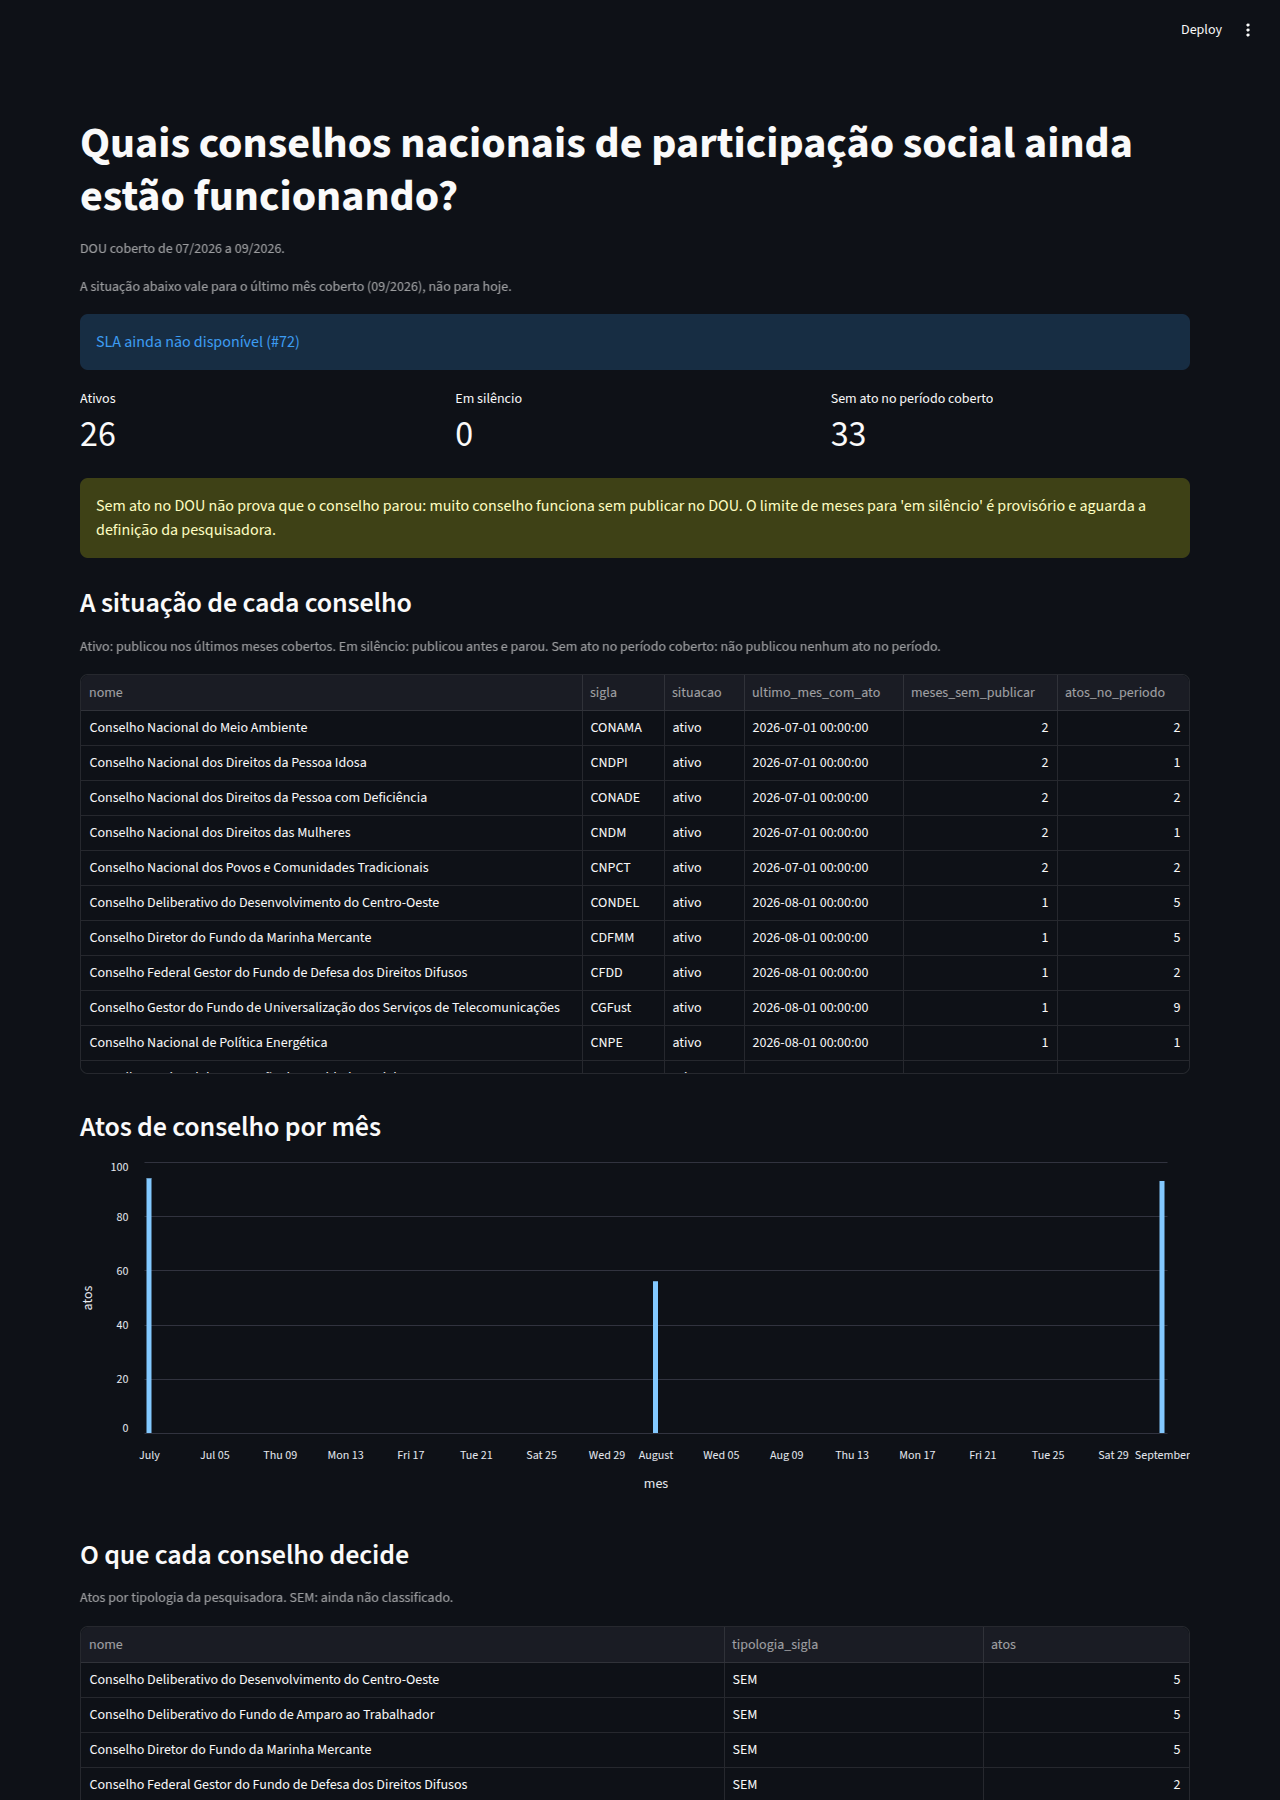
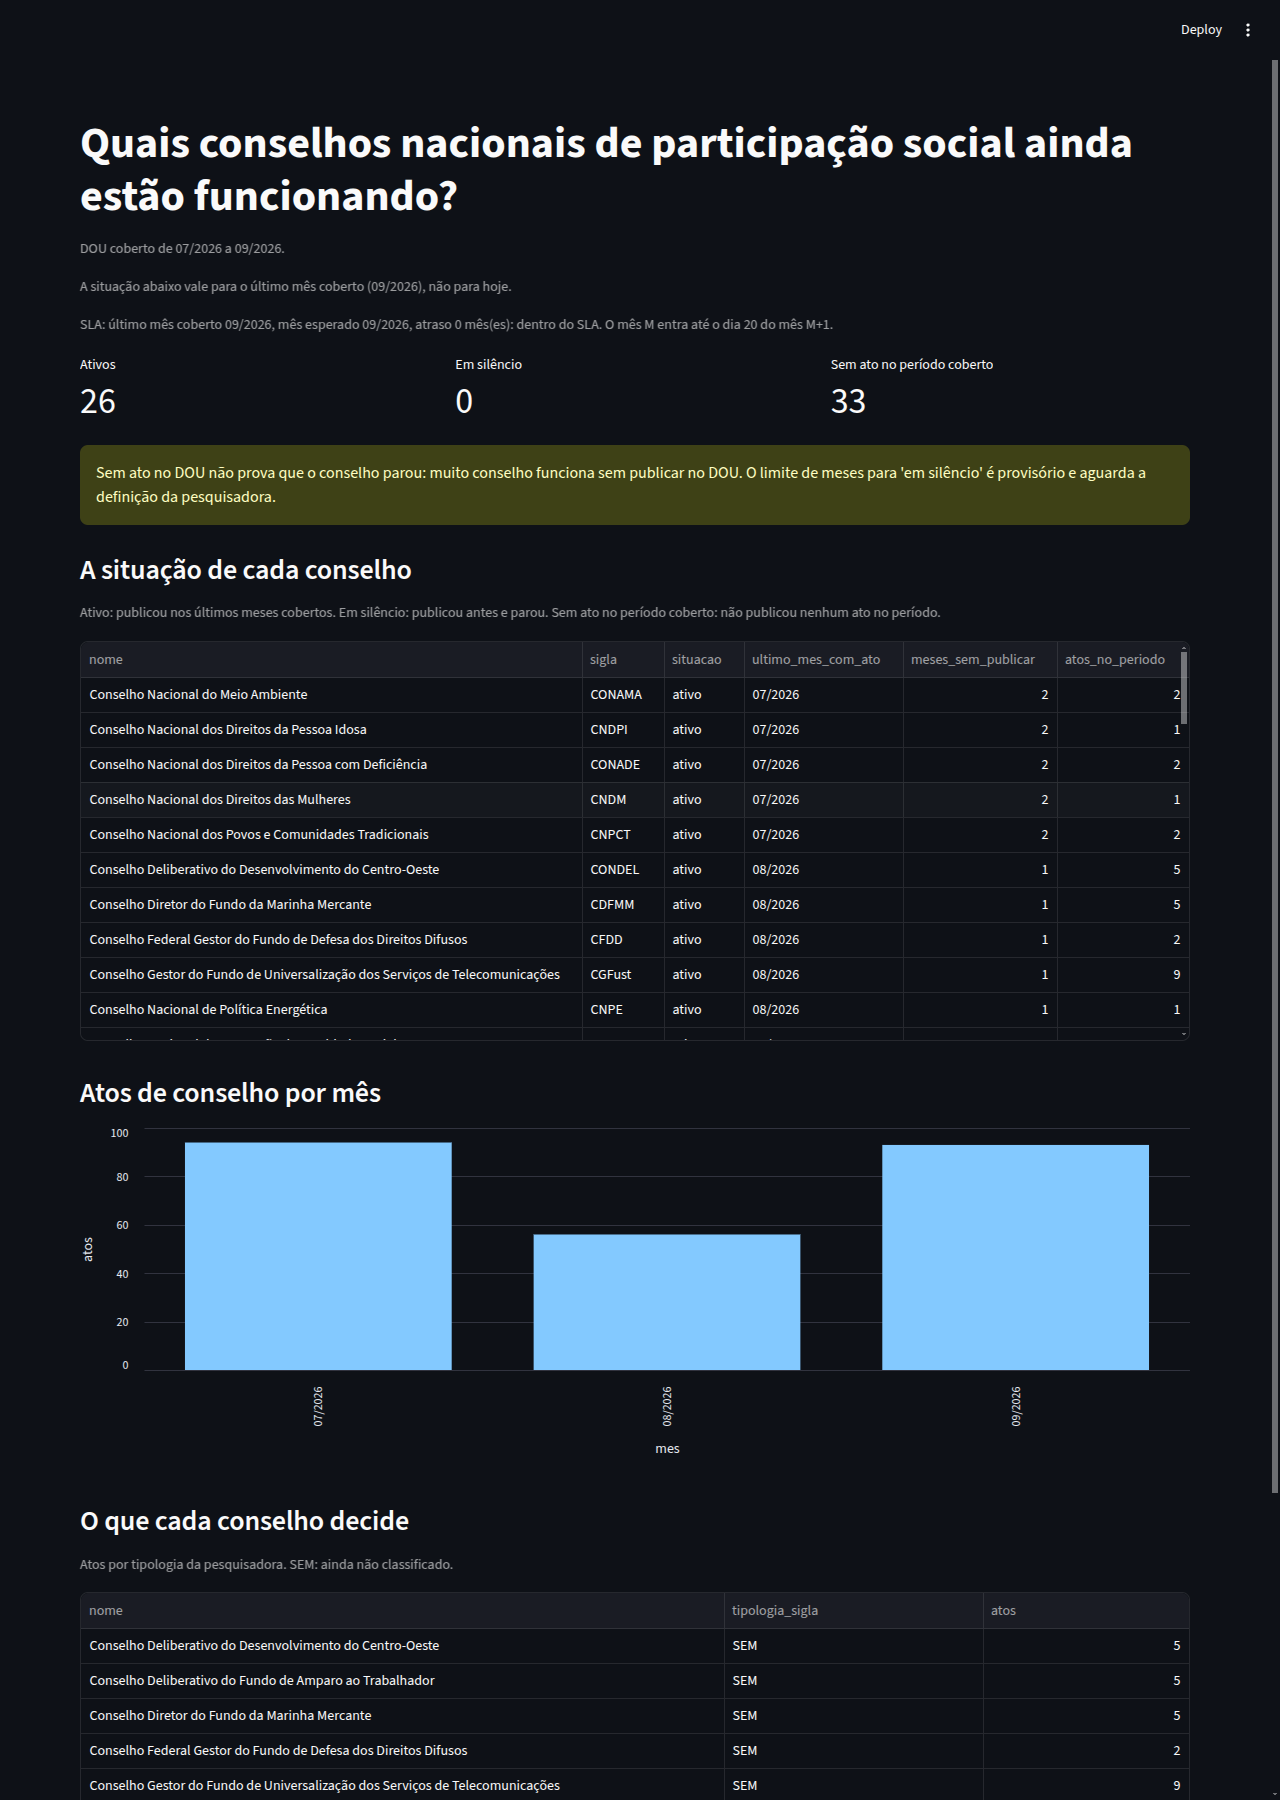
feat(painel): SLA real da #72 e painel sem DOU carregado (#75)

diff --git a/src/painel/app.py b/src/painel/app.py
@@ -1,5 +1,6 @@
 import os
 import duckdb
+import pandas as pd
 import streamlit as st
 
 st.set_page_config(page_title="Conselhos Vivos", layout="wide")
@@ -13,6 +14,9 @@ def consulta(sql):
     with duckdb.connect(GOLD, read_only=True) as con:
         return con.sql(sql).df()
 
+def mes(d):
+    return f"{d:%m/%Y}" if pd.notna(d) else ""
+
 if not os.path.exists(GOLD):
     st.error("Não há gold em data/gold/conselhos.duckdb: rode make gold.")
     st.stop()
@@ -21,6 +25,9 @@ erro = None
 try:
     periodo = consulta("select min(mes) as primeiro, max(mes) as ultimo from fct_conselho_mes").iloc[0]
     v = consulta("select * from mart_vitalidade order by situacao, meses_sem_publicar desc nulls last, nome")
+    mensal = consulta("select mes, sum(atos) as atos from fct_conselho_mes group by mes order by mes")
+    # o freshness é uma linha só, com nulos quando o DOU está vazio
+    f = consulta("select * from freshness_vitalidade").iloc[0] if pd.notna(periodo["ultimo"]) else None
 except duckdb.CatalogException:
     erro = "A gold não tem as tabelas do painel: rode make gold."
 except duckdb.IOException:
@@ -30,24 +37,20 @@ if erro:
     st.error(erro)
     st.stop()
 
-st.caption(f"DOU coberto de {periodo['primeiro']:%m/%Y} a {periodo['ultimo']:%m/%Y}.")
+if v.empty:
+    st.error("A gold não tem conselhos: rode make gold.")
+    st.stop()
 
-mes_ref = v["mes_referencia"].iloc[0]
-st.caption(f"A situação abaixo vale para o último mês coberto ({mes_ref:%m/%Y}), não para hoje.")
-
-tem_freshness = not consulta("select 1 from information_schema.tables where table_name = 'freshness_vitalidade'").empty
-# shortcut: sem freshness_vitalidade até a #72 entrar; tirar este ramo quando ela entrar.
-if tem_freshness:
-    f = consulta("select * from freshness_vitalidade").iloc[0]
+if f is None:
+    st.info("DOU ainda não carregado: rode `make ingest-mensal`.")
+else:
+    st.caption(f"DOU coberto de {mes(periodo['primeiro'])} a {mes(periodo['ultimo'])}.")
+    st.caption(f"A situação abaixo vale para o último mês coberto ({mes(v['mes_referencia'].iloc[0])}), não para hoje.")
     situacao_sla = "dentro do SLA" if f["dentro_do_sla"] else f"{f['atraso_meses']} mês(es) fora do SLA"
     st.caption(
-        f"Último mês coberto: {f['ultimo_mes_coberto']:%m/%Y}. "
-        f"Mês esperado: {f['mes_esperado']:%m/%Y}. "
-        f"Atraso: {f['atraso_meses']} mês(es) ({situacao_sla}). "
-        "SLA: o mês M entra até o dia 20 do mês M+1."
+        f"SLA: último mês coberto {mes(f['ultimo_mes_coberto'])}, mês esperado {mes(f['mes_esperado'])}, "
+        f"atraso {f['atraso_meses']} mês(es): {situacao_sla}. O mês M entra até o dia 20 do mês M+1."
     )
-else:
-    st.info("SLA ainda não disponível (#72)")
 
 col1, col2, col3 = st.columns(3)
 col1.metric("Ativos", int((v.situacao == "ativo").sum()))
@@ -58,10 +61,13 @@ st.warning("Sem ato no DOU não prova que o conselho parou: muito conselho funci
 
 st.subheader("A situação de cada conselho")
 st.caption("Ativo: publicou nos últimos meses cobertos. Em silêncio: publicou antes e parou. Sem ato no período coberto: não publicou nenhum ato no período.")
-st.dataframe(v[["nome", "sigla", "situacao", "ultimo_mes_com_ato", "meses_sem_publicar", "atos_no_periodo"]], hide_index=True)
+tabela = v[["nome", "sigla", "situacao", "ultimo_mes_com_ato", "meses_sem_publicar", "atos_no_periodo"]].copy()
+tabela["ultimo_mes_com_ato"] = tabela["ultimo_mes_com_ato"].map(mes)
+st.dataframe(tabela, hide_index=True)
 
 st.subheader("Atos de conselho por mês")
-st.bar_chart(consulta("select mes, sum(atos) as atos from fct_conselho_mes group by mes order by mes"), x="mes", y="atos")
+mensal["mes"] = mensal["mes"].map(mes)
+st.bar_chart(mensal, x="mes", y="atos")
 
 st.subheader("O que cada conselho decide")
 st.caption("Atos por tipologia da pesquisadora. SEM: ainda não classificado.")

diff --git a/tests/painel/test_app.py b/tests/painel/test_app.py
@@ -106,20 +106,44 @@ class TestApp(unittest.TestCase):
         warnings = [w.value for w in at.warning]
         self.assertGreater(len(warnings), 0)
         self.assertIn("Sem ato no DOU não prova que o conselho parou", warnings[0])
-        infos = [i.value for i in at.info]
-        self.assertFalse(any("SLA ainda não disponível" in i for i in infos))
+        legendas = [c.value for c in at.caption]
+        self.assertTrue(any("dentro do SLA" in t for t in legendas))
 
-    def test_com_dados_sem_freshness(self):
+    def test_sla_fora_aparece_na_pagina(self):
         with duckdb.connect(self.gold_path) as con:
             self._cria_tabelas_base(con)
+            con.execute("""
+                CREATE TABLE freshness_vitalidade (
+                    primeiro_mes_coberto DATE, ultimo_mes_coberto DATE, mes_esperado DATE,
+                    atraso_meses INTEGER, dentro_do_sla BOOLEAN
+                );
+                INSERT INTO freshness_vitalidade VALUES
+                    (DATE '2026-07-01', DATE '2026-09-01', DATE '2026-10-01', 1, false);
+            """)
         os.environ["PAINEL_GOLD"] = self.gold_path
         at = AppTest.from_file(APP).run(timeout=60)
         self.assertEqual(len(at.exception), 0)
-        self.assertEqual([m.label for m in at.metric], ["Ativos", "Em silêncio", "Sem ato no período coberto"])
-        self.assertEqual([m.value for m in at.metric], ["1", "2", "1"])
+        legendas = [c.value for c in at.caption]
+        self.assertTrue(any("mês esperado 10/2026" in t and "1 mês(es) fora do SLA" in t for t in legendas), legendas)
+
+    def test_fct_vazio_sem_dou(self):
+        with duckdb.connect(self.gold_path) as con:
+            self._cria_tabelas_base(con)
+            con.execute("""
+                DELETE FROM fct_conselho_mes;
+                CREATE TABLE freshness_vitalidade (
+                    primeiro_mes_coberto DATE, ultimo_mes_coberto DATE, mes_esperado DATE,
+                    atraso_meses INTEGER, dentro_do_sla BOOLEAN
+                );
+                INSERT INTO freshness_vitalidade VALUES (NULL, NULL, DATE '2026-09-01', NULL, false);
+            """)
+        os.environ["PAINEL_GOLD"] = self.gold_path
+        at = AppTest.from_file(APP).run(timeout=60)
+        self.assertEqual(len(at.exception), 0)
         infos = [i.value for i in at.info]
-        self.assertGreater(len(infos), 0)
-        self.assertIn("SLA ainda não disponível (#72)", infos[0])
+        self.assertTrue(any("DOU ainda não carregado: rode `make ingest-mensal`" in i for i in infos), infos)
+        self.assertEqual([m.label for m in at.metric], ["Ativos", "Em silêncio", "Sem ato no período coberto"])
+        self.assertEqual(len(at.dataframe[0].value), 4)
 
     def test_sem_banco(self):
         caminho_inexistente = os.path.join(self.tmpdir, "inexistente.duckdb")

diff --git a/AI-USAGE.md b/AI-USAGE.md
@@ -579,11 +579,12 @@ tradução. Registre o que produziu artefato ou mudou uma decisão.
 
 ### 2026-11-08 — Painel em Streamlit respondendo à pergunta da E1 (#75)
 
-- **Ferramenta:** Claude Code (Claude Haiku 5.5) na especificação, nas verificações e nesta entrada; Antigravity (agy) na escrita de `src/painel/app.py`, `tests/painel/test_app.py`, do serviço `painel` no `docker-compose.yml` e dos alvos `painel` e `test-painel` no `Makefile`, conforme a especificação.
-- **Onde:** `src/painel/app.py`, `tests/painel/test_app.py`, `docker-compose.yml`, `Makefile`, `docs/adr/medicoes/0009-gold/painel.png`, `docs/planos/2026-11-03-e3-camada-analitica.md` (Tarefa 8).
-- **O que foi pedido:** a Tarefa 8 do plano e a issue #75: o painel em Streamlit com a pergunta da E1, lendo só a gold, com `make painel` e teste no `make test`.
-- **O que foi aproveitado:** o que o `agy` escreveu, depois de conferido arquivo por arquivo; a página e o teste seguiram a especificação. **Decidido pela IA**, a revisar pela squad: (1) o aviso "Sem ato no DOU não prova que o conselho parou..." fica ao lado dos três números, com o texto pedido na decisão; (2) o ramo do SLA: sem `freshness_vitalidade` (a #72 ainda não está no `main`), a página mostra "SLA ainda não disponível (#72)", marcado com `shortcut:`; (3) o limite de meses para "em silêncio" segue provisório (`meses_ativo = 3`).
-- **Como foi verificado:** `make gold` com 56 de 56 em PASS, antes e com o painel aberto; `make test-painel` com 4 testes em OK; `make painel` respondeu em `/_stcore/health`; a captura `docs/adr/medicoes/0009-gold/painel.png` mostra 26 ativos, 0 em silêncio e 33 sem ato, com o DOU coberto de 07/2026 a 09/2026. A conferência do diff foi feita por leitura, sem revisão independente.
+- **Ferramenta:** Claude Code (Claude Haiku 5.5) na especificação, nas verificações, nos ajustes e nesta entrada; Antigravity (agy) na primeira escrita de `src/painel/app.py`, `tests/painel/test_app.py`, do serviço `painel` no `docker-compose.yml` e dos alvos `painel` e `test-painel` no `Makefile`.
+- **Onde:** `src/painel/app.py`, `tests/painel/test_app.py`, `docker-compose.yml`, `Makefile`, `docs/adr/medicoes/0009-gold/painel.png`, `docs/planos/2026-11-03-e3-camada-analitica.md` (Tarefa 8), `AI-USAGE.md`.
+- **O que foi pedido:** a Tarefa 8 do plano e a issue #75: painel em Streamlit com a pergunta da E1, lendo só a gold, com `make painel` e teste no `make test`.
+- **O que foi aproveitado:** a primeira versão do `agy`, conferida arquivo por arquivo. Depois, com a #72 já no `main` (8fe61cd), o Claude Code (Haiku 5.5) fez o ajuste: o SLA passou a vir de `freshness_vitalidade`, e o ramo "SLA ainda não disponível (#72)" saiu; sem DOU carregado, a página mostra "DOU ainda não carregado: rode `make ingest-mensal`" no lugar do período, sem traceback; mart vazia cai na mensagem de `make gold`; os meses da tabela e do gráfico aparecem como MM/AAAA. Essa rodada foi escrita pelo Claude Code, não pelo agy, porque a permissão de comandos do agy não foi aprovada.
+- **Decidido pela IA**, a revisar pela squad: (1) o aviso "Sem ato no DOU não prova que o conselho parou..." fica ao lado dos três números, com o texto pedido na decisão; (2) o limite de meses para "em silêncio" segue provisório (`meses_ativo = 3`).
+- **Como foi verificado:** `make gold` com 63 de 63 em PASS, antes de subir o painel nesta rodada (na rodada anterior, com o painel aberto, passou com 56 de 56); `make test-painel` com 5 testes em OK; `make painel` respondeu em `/_stcore/health`; a captura `docs/adr/medicoes/0009-gold/painel.png` mostra 26 ativos, 0 em silêncio e 33 sem ato, o DOU coberto de 07/2026 a 09/2026 e a linha do SLA "dentro do SLA", com mês esperado 09/2026.
 - **Quem revisou:** pendente.
 
 ### 2026-11-09 — Fato do ato ligado ao nome da época (#70)

diff --git a/docs/planos/2026-11-03-e3-camada-analitica.md b/docs/planos/2026-11-03-e3-camada-analitica.md
@@ -1357,7 +1357,7 @@ git add sql/007_indice_vigencia_orgao_nome.sql docs/adr/medicoes/0009-gold && gi
 
 Ele responde só à pergunta da E1. São quatro blocos, nenhum gráfico decorativo.
 
-**Como ficou (#75):** 59 conselhos (ADR 0010), não 82; a gold vem de `PAINEL_GOLD` (o teste aponta para um DuckDB temporário); sem `freshness_vitalidade` (a #72 ainda não está no `main`), a página mostra "SLA ainda não disponível (#72)"; o teste é `tests/painel/test_app.py`, alvo `make test-painel`, ligado ao `make test`.
+**Como ficou (#75):** 59 conselhos (ADR 0010), não 82; a gold vem de `PAINEL_GOLD` (o teste aponta para um DuckDB temporário); o SLA vem de `freshness_vitalidade` (#72); sem DOU carregado, a página diz "rode `make ingest-mensal`" no lugar do período; o teste é `tests/painel/test_app.py`, alvo `make test-painel`, ligado ao `make test`.
 
 **Arquivos:**
 - Criar: `src/painel/app.py`
